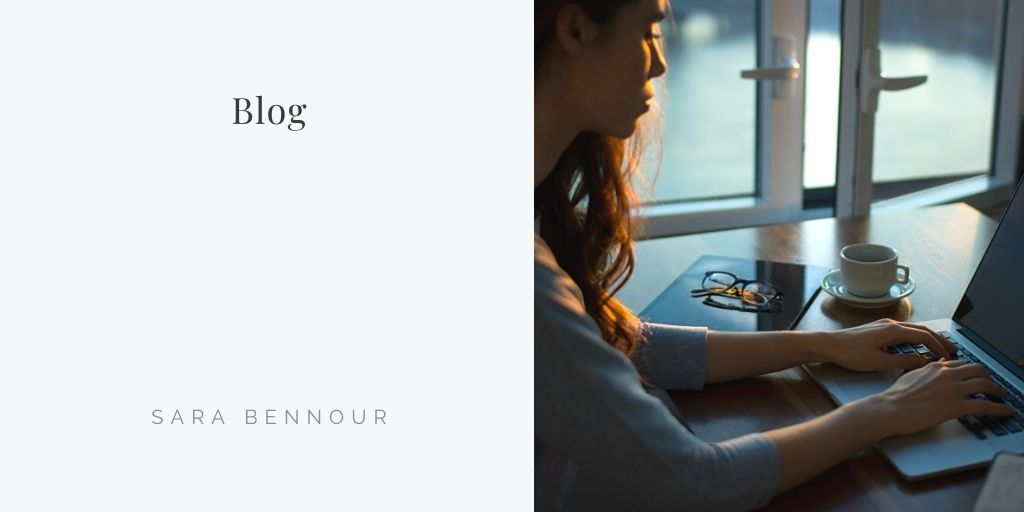
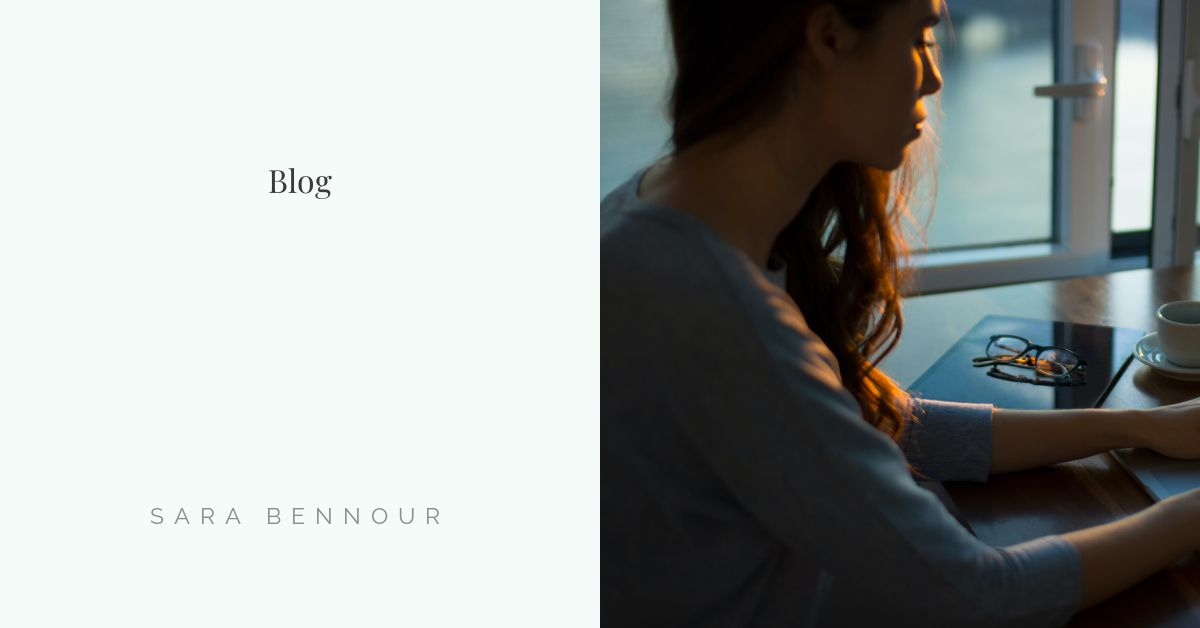
add new Netlify function

diff --git a/functions/screenshot.js b/functions/screenshot.js
@@ -1,0 +1,71 @@
+const { builder } = require('@netlify/functions')
+const chromium = require('chrome-aws-lambda')
+
+async function screenshot(url) {
+  const browser = await chromium.puppeteer.launch({
+    executablePath: await chromium.executablePath,
+    args: chromium.args,
+    defaultViewport: {
+      width: 1200,
+      height: 628,
+    },
+    headless: chromium.headless,
+  })
+
+  const page = await browser.newPage()
+
+  // TODO is there a way to bail at timeout and still show what’s rendered on the page?
+  await page.goto(
+    `https://sarabennour.com/og-image.html?${url}`,
+    {
+      waitUntil: ['load', 'networkidle0'],
+      timeout: 8500,
+    }
+  )
+  // let statusCode = response.status();
+  // TODO handle 404/500 status codes better
+
+  const options = {
+    type: 'jpeg',
+    encoding: 'base64',
+    quality: 80,
+  }
+
+  const output = await page.screenshot(options)
+
+  await browser.close()
+
+  return output
+}
+
+// Based on https://github.com/DavidWells/netlify-functions-workshop/blob/master/lessons-code-complete/use-cases/13-returning-dynamic-images/functions/return-image.js
+async function handler(event, context) {
+  const url = event.rawQuery
+
+  try {
+    const output = await screenshot(url)
+
+    return {
+      statusCode: 200,
+      headers: {
+        'content-type': `image/jpeg`,
+      },
+      body: output,
+      isBase64Encoded: true,
+    }
+  } catch (error) {
+    return {
+      // We need to return 200 here or Firefox won’t display the image
+      // HOWEVER a 200 means that if it times out on the first attempt it will stay the default image until the next build.
+      statusCode: 200,
+      headers: {
+        'content-type': 'image/svg+xml',
+        // 'x-error-message': error.message,
+      },
+      body: "",
+      isBase64Encoded: false,
+    }
+  }
+}
+
+exports.handler = builder(handler)

diff --git a/static/og-image.html b/static/og-image.html
@@ -1,0 +1,64 @@
+<!DOCTYPE html>
+<html lang="en">
+<head>
+  <meta charset="UTF-8">
+  <meta http-equiv="X-UA-Compatible" content="IE=edge">
+  <meta name="viewport" content="width=device-width, initial-scale=1.0">
+  <title>Screenshot</title>
+  <link rel="preconnect" href="https://fonts.googleapis.com">
+  <link rel="preconnect" href="https://fonts.gstatic.com" crossorigin>
+  <link href="https://fonts.googleapis.com/css2?family=Playfair+Display&family=Raleway&display=swap" rel="stylesheet">
+  <style>
+    body {
+      background-color: #f5fbf8;
+      margin: 0;
+    }
+
+    figure {
+      display: grid;
+      grid-template-columns: repeat(12, 1fr);
+      grid-template-rows: repeat(5, 1fr);
+      height: 628px;
+      margin: 0;
+    }
+
+    blockquote {
+      color: #3b3b3a;
+      font-family: 'Playfair Display', serif;
+      font-size: 48px;
+      grid-area: 2 / 2 / 4 / 6;
+      text-align: center;
+    }
+
+    figcaption {
+      color: #8d8d8d;
+      font-family: 'Raleway', sans-serif;
+      font-size: 23px;
+      grid-area: 5 / 2 / 5 / 6;
+      letter-spacing: 10px;
+      text-align: center;
+      text-transform: uppercase;
+    }
+
+    img {
+      grid-area: 1 / 7 / 6 / 13;
+      height: auto;
+      object-fit: cover;
+      width: 100%
+    }
+  </style>
+</head>
+<body>
+  <figure>
+    <blockquote id="blockquote"></blockquote>
+    <figcaption>Sara Bennour</figcaption>
+    <img src="thought-catalog-UK78i6vK3sc-unsplash.jpg" alt="" />
+  </figure>
+
+  <script>
+    const urlParams = new URLSearchParams(window.location.search);
+    const text = urlParams.get('text');
+    document.getElementById("blockquote").textContent = text;
+  </script>
+</body>
+</html>

diff --git a/nuxt.config.js b/nuxt.config.js
@@ -18,7 +18,7 @@ export default {
     link: [
       { rel: 'icon', type: 'image/x-icon', href: '/favicon.ico' }
     ],
-    script: [      
+    script: [
       { hid: 'tagmanager', innerHTML: "(function(w,d,s,l,i){w[l]=w[l]||[];w[l].push({'gtm.start':new Date().getTime(),event:'gtm.js'});var f=d.getElementsByTagName(s)[0],j=d.createElement(s),dl=l!='dataLayer'?'&l='+l:'';j.async=true;j.src='https://www.googletagmanager.com/gtm.js?id='+i+dl;f.parentNode.insertBefore(j,f);})(window,document,'script','dataLayer','GTM-KTDKXJV');" },
     ],
     __dangerouslyDisableSanitizersByTagID: {

diff --git a/pages/blog/_slug.vue b/pages/blog/_slug.vue
@@ -43,7 +43,7 @@ export default {
         {
           hid: 'og:image',
           property: 'og:image',
-          content: 'https://sarabennour.com/images/blog/og-image.jpg',
+          content: `https://sarabennour.com/images/blog/${this.post.slug}/og-image.jpeg`,
         },
       ],
     }

diff --git a/pages/blog/index.vue b/pages/blog/index.vue
@@ -51,7 +51,7 @@ export default {
         {
           hid: 'og:image',
           property: 'og:image',
-          content: 'https://sarabennour.com/images/blog/og-image.jpg',
+          content: 'https://sarabennour.com/images/blog/og-image.jpeg',
         },
       ],
     }

diff --git a/pages/index.vue b/pages/index.vue
@@ -36,7 +36,7 @@ export default {
         {
           hid: 'og:image',
           property: 'og:image',
-          content: 'https://sarabennour.com/images/og-image.jpg',
+          content: 'https://sarabennour.com/images/og-image.jpeg',
         },
       ],
     }
